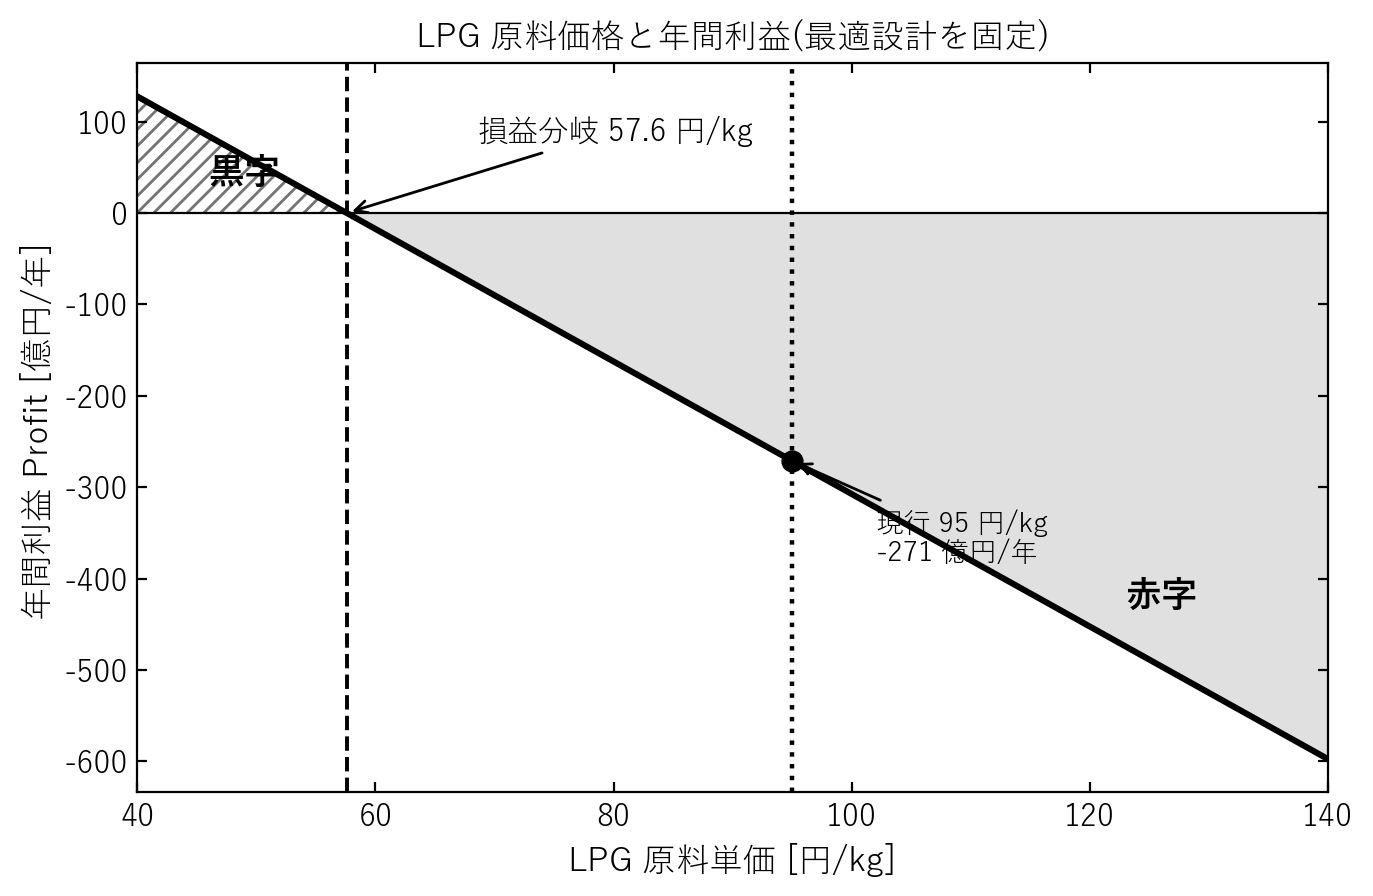
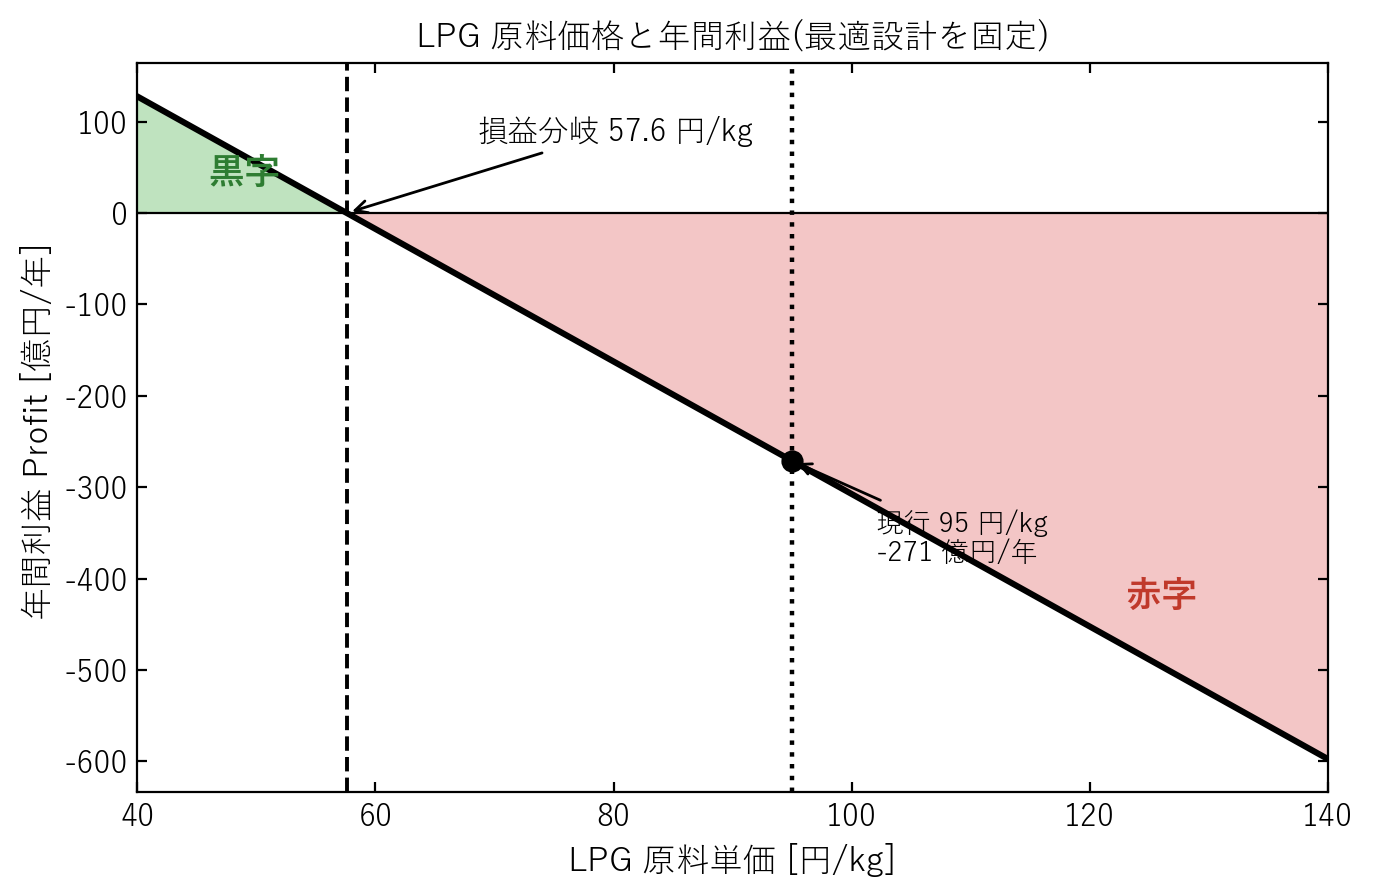
fix: 0605

Changed region(s): [[0.2753, 0.2188, 0.9789, 0.8438], [0.0918, 0.0938, 0.2447, 0.25]]

diff --git a/exp/exp3.py b/exp/exp3.py
@@ -56,9 +56,11 @@ from simulation import display_full_results, hdr, show_input_snapshot, run_exp
 # ===========================================================================
 
 # main.py (HYSYS+SM 全23変数 BO, 反応器=catofin) の BO best の最適化済み 23 変数をそのまま投入。
-#   出典 outputs/main_20260604_014318/best.json (trial #227)
-#   (BO 記録 effective_TAC=1092.70 億円/年 (=HI後TAC)、feasible=True、
-#    純度 99.497wt% / 生産量 1194.24 kmol/h / 収率 ≈81.9%)。
+#   出典 outputs/main_20260604_215740/trials.csv (trial #125)
+#   = 反応器制約版(N_online≤8, balanced N_total=2×N_online, L_bed≤3, d_p≥4, D≥9, 200m³上限)の
+#     再最適化で「生産=目標1194.2 kmol/h を出す中で最小TAC」の採用設計。
+#   (BO 記録 effective_TAC=1068.63 億円/年 (=HI後TAC)、feasible=True、
+#    純度 99.497wt% / 生産量 1194.24 kmol/h / 収率 ≈82.0% / N_total=16基)。
 #   exp3 でフル詳細出力を見て手動検証するため。
 # 注意1: main は反応器=Catofin型 浅床・多基並列スイング (catofin)。exp3 も CatofinDesignVars を使い、
 #   反応器変数を (T_in, t_cyc, D, L_bed, N_online, d_p) とする。d_p は mm→m に変換して渡す
@@ -72,44 +74,44 @@ from simulation import display_full_results, hdr, show_input_snapshot, run_exp
 # 値は best.json (trial #227) のフル精度をそのまま転記する。
 # リサイクル収束は TOL_rel=1% で打ち切るため入力を丸めると着地点がずれ TAC が ~0.2%
 # 変わる。main と同一の TAC (1092.70 億円/年) を再現するにはフル精度で揃える必要がある。
-T_in_K          = 931.1271045663474
-t_cyc_min       = 13.990031788932104
-D_reactor_m     = 6.771407547160768
-L_bed_m         = 0.95630263904489
-N_online        = 24
-d_p_mm          = 3.1556808652056993
+T_in_K          = 931.1396067022338
+t_cyc_min       = 14.646484386062184
+D_reactor_m     = 10.323475386828628
+L_bed_m         = 1.1037728620421936
+N_online        = 8
+d_p_mm          = 5.098875608192616
 
 # === PSA =====================================================================
-D_psa_col_m       = 4.047993058871873
-L_psa_bed_m       = 23.70535583806561
-desorption_target = 0.3083444011630537
+D_psa_col_m       = 4.8918896871258895
+L_psa_bed_m       = 26.011712204997245
+desorption_target = 0.32110122921906026
 
 # === 膜分離 ===================================================================
-P_H_Pa     = 808200.3827126131
+P_H_Pa     = 849444.5811765966
 P_L_Pa     = 1.0e5
-A_mem_m2   = 198926.22868898342
+A_mem_m2   = 231947.92797432584
 
 # === Dist1 (脱ブタン塔) SM ===================================================
-P_dist1_kPa            = 1813.587593024316
-N_dist1                = 52
-FEED_STAGE_dist1       = 22       # col1_feed_stage: 最適化変数 (フィード段を直接探索)
-COMP_FRAC_2_dist1      = 0.941279208915399
+P_dist1_kPa            = 1826.683392889994
+N_dist1                = 38
+FEED_STAGE_dist1       = 25       # col1_feed_stage: 最適化変数 (フィード段を直接探索)
+COMP_FRAC_2_dist1      = 0.9401130406436439
 
 # === Dist2 (脱エタン塔) HYSYS ===============================================
-# P_dist2=780.9 kPa < P_H=808.2 kPa (Mem の ph_le_pfeed 回避を満たす)。
-P_dist2_kPa            = 780.873482108908
-N_dist2                = 69
-FEED_RATIO_dist2       = 0.4711982509052778  # col2_feed_ratio: 最適化変数。下で絶対段へ変換
-REFLUX_RATIO_dist2     = 10.166370748366086
+# P_dist2=805.6 kPa < P_H=849.4 kPa (Mem の ph_le_pfeed 回避を満たす)。
+P_dist2_kPa            = 805.5746202501241
+N_dist2                = 76
+FEED_RATIO_dist2       = 0.5380000571489029  # col2_feed_ratio: 最適化変数。下で絶対段へ変換
+REFLUX_RATIO_dist2     = 10.124163286577364
 
 # === Dist3 (C3 スプリッタ) SM ===============================================
-P_dist3_kPa            = 1747.7616553132661
-N_dist3                = 142
-FEED_RATIO_dist3       = 0.7616740161372767  # col3_feed_ratio: 最適化変数。絶対段は組み立て側で導出
+P_dist3_kPa            = 1669.217330080737
+N_dist3                = 150
+FEED_RATIO_dist3       = 0.8458566591548666  # col3_feed_ratio: 最適化変数。絶対段は組み立て側で導出
 DRAW_RATE_dist3_kmolh  = 0.99     # SM では未使用 (Dist3 は spec なし)
 
 # === Fresh LPG ==============================================================
-F_C3H8_fresh_kmol_h = 1457.2873803653865
+F_C3H8_fresh_kmol_h = 1456.694207233684
 
 
 # ===========================================================================

diff --git a/units/reactors/catofin.py b/units/reactors/catofin.py
@@ -134,6 +134,22 @@ def simulate_catofin_reactor_system(
     if F_total_in <= 0:
         return _penalty_result(reason='input_invalid')
 
+    # ---- 1基あたり触媒量上限 (コンテスト §3-3: 最大 200 m³/基) ----
+    # 深床許可 (L_bed≤5m) で V_cat/基 が 200m³ を超えうるため、ODE 前に早期厳守する。
+    #   旧軸流 swing は V_cat_max_per_vessel で並列分割していたが、catofin は N_online を
+    #   自由変数化した際にこの上限を落としていた。再導入して非現実な巨大単基を排除する。
+    #   超過は _compute_reactor_shortfall の else 経由で reactor_other_shortfall=1.0 となり、
+    #   BO に「この反応器幾何は不可」と伝わる (D↓/L_bed↓ 方向)。
+    _A_cross_chk = math.pi / 4.0 * design.D ** 2
+    _V_cat_chk = _A_cross_chk * design.L_bed * (1.0 - fixed.eps)
+    if _V_cat_chk > fixed.V_cat_max_per_vessel:
+        warnings.warn(
+            f"catofin: V_cat/基={_V_cat_chk:.1f} m³ > 上限 "
+            f"{fixed.V_cat_max_per_vessel:.0f} m³ "
+            f"(D={design.D:.2f}m, L_bed={design.L_bed:.2f}m) — infeasible",
+            UserWarning, stacklevel=2)
+        return _penalty_result(reason='vcat_above_max')
+
     # ---- per-vessel フィード (流量を N_online で分割) ----
     feed_1 = FeedStream(
         F_in={c: feed.F_in.get(c, 0.0) / N for c in feed.F_in},
@@ -229,9 +245,25 @@ def simulate_catofin_reactor_system(
     Q_hgm_GJh = max(Q_hgm_W, 0.0) * 3600.0 / 1e9
     Q_preheat_GJh += Q_hgm_GJh
 
-    # ---- 装置・基数・CAPEX ----
-    N_swing_sets = math.ceil(fixed.t_regen / design.t_cyc) + 1
-    N_total = N * N_swing_sets
+    # ---- 装置・基数 (共有プール フリート・サイジング) ----
+    # 各反応器は固定床のまま (触媒は動かない=移動床ではない)、t_cyc 反応 → t_off オフライン
+    # (再生+パージ+切替+再加熱) を位相をずらして循環する。定常で N_online 基を常時オンラインに
+    # 保つ総数は時間占有率から:
+    #   N_total = ceil( N_online × (t_cyc + t_off) / t_cyc ) = ceil( N_online × (1 + t_off/t_cyc) )
+    # 旧「ブロック複製式」 N_online × (ceil(t_regen/t_cyc)+1) は N_online 基を1ブロックとして
+    # 一斉切替する保守近似で、per-set の切り上げを ×N_online 増幅し過大計上していた
+    # (例: N_online=24, t_cyc=14, t_off=30 → 旧96 基)。実機は1基/小グループ単位で位相を
+    # ずらせるので、切り上げは総数に対し最後に1回だけ。
+    #
+    # ★t_off = t_cyc を採用 (balanced cycle): 実機 Catofin は反応と再生をほぼ同尺
+    #   (各~10-15min) でバランスさせるため、t_off (再生+パージ+切替+再加熱) ≈ t_cyc と置く。
+    #   → fleet 倍率 = 1 + t_off/t_cyc = 2.0 (t_cyc の値によらず)、N_total = 2 × N_online。
+    #   旧 !仮置き t_regen=30min は反応の2倍超で倍率3.14 となり台数を過大にしていた。
+    #   (fixed.t_regen は swing/radial 用に残置、catofin では未使用。)
+    _t_off = design.t_cyc                          # balanced: 再生≈反応 (実機 Catofin)
+    _fleet_mult = 1.0 + _t_off / design.t_cyc      # = 2.0
+    N_total = math.ceil(N * _fleet_mult)
+    N_swing_sets = math.ceil(_fleet_mult)          # = 2 (表示用: (反応+休止)/反応 倍率)
     V_cat_pervessel = A_cross * design.L_bed * (1.0 - fixed.eps)   # 1基床体積 [m³]
     V_vessel_pervessel = A_cross * design.L_bed                    # 1基容器体積 [m³]
     catalyst_weight_total = V_cat_pervessel * N_total * fixed.rho_b  # [kg]

diff --git a/main.py b/main.py
@@ -144,12 +144,16 @@ _REACTOR_SPACE = {
         #  では C2-lean フィードを暖められず、C2 生成=高 T_in が唯一の有効レバーと確認。)
         "T_in_K":              (930.0,  940.0,  'linear', 'float'),
         "t_cyc_min":           (12.0,   25.0,   'linear', 'float'),  # 反応フェーズ時間
-        "D_reactor_m":         (6.0,    12.0,   'linear', 'float'),  # 1基あたり内径
-        # L_bed と N_online は同時最適化が肝: 低速化(N↑)で余った床ΔP予算を床長(L↑)に戻せる。
-        # 低速・多基だけに振らず、L_bed を伸ばして基数を抑える解も BO に探させる。
-        "L_bed_m":             (0.3,    1.0,    'linear', 'float'),  # 浅床厚み (上限1.0=深床化防止)
-        "N_online":            (6,      25,     'linear', 'int'  ),  # 並列基数 (低速・大断面のため拡大)
-        "d_p_mm":              (2.0,    6.0,    'linear', 'float'),  # 触媒粒径 (ΔP↓↔粒内拡散η↓)
+        "D_reactor_m":         (9.0,    12.0,   'linear', 'float'),  # 1基あたり内径 (下限9: N_online≤8では小径=流速過大で床ΔP死、探索条件付け)
+        # L_bed と N_online は同時最適化が肝。基数上限を 8 に絞り (N_total=N_online×N_swing≤32)、
+        # 旧解の「17m³級×96基」という非現実設計 (= 1基あたりコンテスト上限 200m³ の 8.6% しか
+        # 使わず弁/マニホールド/計装が支配的になる) を排除する。少数基に必要触媒を収めるため
+        # 浅床縛り (旧 L_bed≤1.0) を外して深床を許可 (上限 5.0m)。深床化による床ΔP増は
+        # d_p↑ (粒径拡大) と既存 ΔP 制約 (床<5%/総<10%) のトレードオフに管理させる。
+        # 1基あたり触媒量はコンテスト §3-3 の 200m³ で上限を厳守 (catofin.py 側)。
+        "L_bed_m":             (0.3,    3.0,    'linear', 'float'),  # 床厚み (深床許可だが上限3.0: L>3は0.5barでΔP死域。D≥10で十分な触媒量)
+        "N_online":            (6,      8,      'linear', 'int'  ),  # 並列基数 (≤8 → balanced で N_total=2×N_online≤16, 実機妥当性)
+        "d_p_mm":              (4.0,    6.0,    'linear', 'float'),  # 触媒粒径 (下限4: 小粒径は床ΔP過大で死。4-6では転化率ほぼ不変=損失なし)
     },
     # 軸流深床 (旧、圧損で 0.5bar では成立しない。比較・回帰用)
     'axial': {

diff --git a/monitor/_run_lpg_breakeven_catofin.py b/monitor/_run_lpg_breakeven_catofin.py
@@ -126,8 +126,8 @@ print(f"  現行製造原単価     : {econ_hi.unit_jpy_per_t/1000:.1f} 円/kg")
 # ---- 図1: 価格 vs 利益 ----
 fig1, ax = plt.subplots(figsize=(7.0, 4.6))
 ax.axhline(0, color='black', lw=0.8)
-ax.fill_between(prices, profits, 0, where=(profits > 0), facecolor='none', hatch='////', edgecolor='0.45', linewidth=0.0)
-ax.fill_between(prices, profits, 0, where=(profits < 0), facecolor='0.88', edgecolor='none')
+ax.fill_between(prices, profits, 0, where=(profits > 0), facecolor='#bfe3bf', edgecolor='none')
+ax.fill_between(prices, profits, 0, where=(profits < 0), facecolor='#f3c6c6', edgecolor='none')
 ax.plot(prices, profits, lw=2.2, color='black')
 ax.axvline(price_be, color='black', ls='--', lw=1.4); ax.axvline(BASE_PRICE, color='black', ls=':', lw=1.6)
 ax.plot(BASE_PRICE, econ_hi.profit, 'o', color='black', ms=7, zorder=5)
@@ -136,8 +136,8 @@ ax.annotate(f'損益分岐 {price_be:.1f} 円/kg', xy=(price_be, 0), xytext=(pri
 ax.annotate(f'現行 {BASE_PRICE:.0f} 円/kg\n{econ_hi.profit:.0f} 億円/年', xy=(BASE_PRICE, econ_hi.profit),
             xytext=(BASE_PRICE + 7, econ_hi.profit - 110), ha='left', color='black', fontsize=10,
             arrowprops=dict(arrowstyle='->', color='black'))
-ax.text(46, max(profits) * 0.26, '黒字', color='black', fontsize=13, fontweight='bold')
-ax.text(123, min(profits) * 0.72, '赤字', color='black', fontsize=13, fontweight='bold')
+ax.text(46, max(profits) * 0.26, '黒字', color='#2e7d32', fontsize=13, fontweight='bold')
+ax.text(123, min(profits) * 0.72, '赤字', color='#c0392b', fontsize=13, fontweight='bold')
 ax.set_xlabel('LPG 原料単価 [円/kg]', fontsize=12); ax.set_ylabel('年間利益 Profit [億円/年]', fontsize=12)
 ax.set_title('LPG 原料価格と年間利益(最適設計を固定)', fontsize=12); ax.set_xlim(prices[0], prices[-1])
 fig1.tight_layout()
